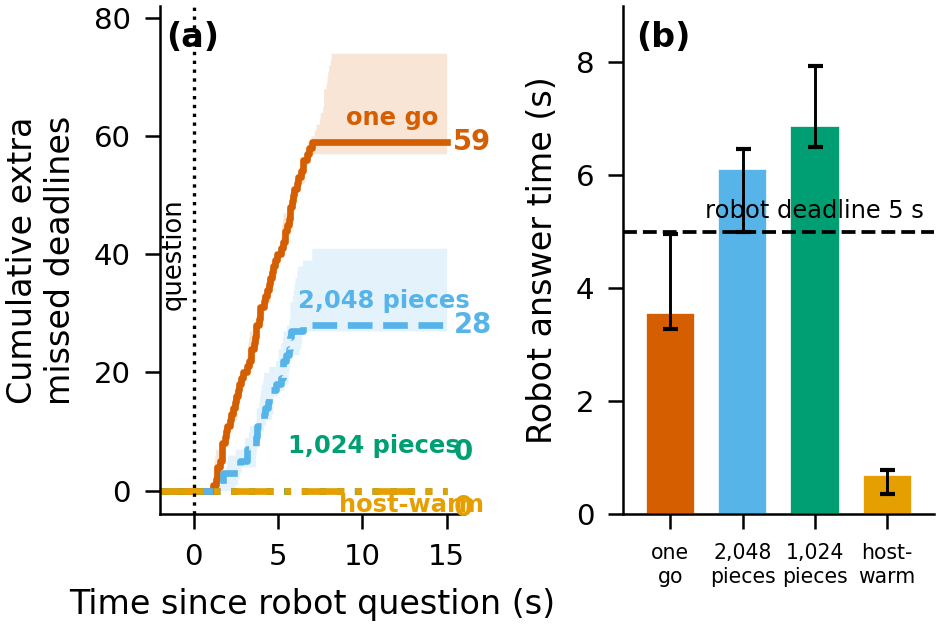
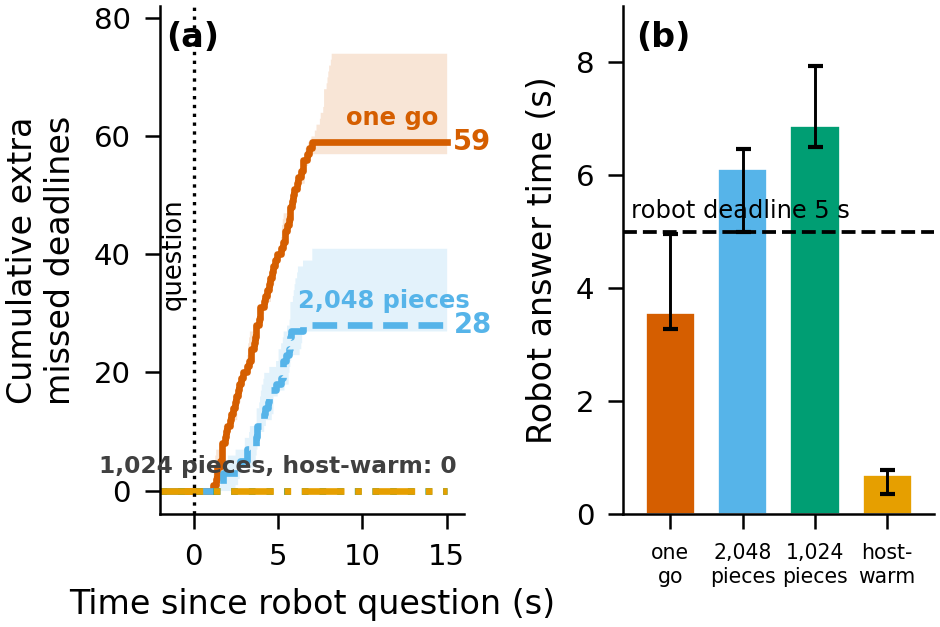
StudyFIG1-motivation

Changed region(s): [[0.0926, 0.697, 0.5245, 0.7576], [0.6787, 0.303, 0.9872, 0.3636], [0.3394, 0.7879, 0.5245, 0.8182]]

diff --git a/plots/motivation/figM7_dayinlife.py b/plots/motivation/figM7_dayinlife.py
@@ -109,13 +109,18 @@ axa.set_xlim(XLO, XR)
 axa.set_ylim(-4, 82)
 axa.set_xticks([0, 5, 10, 15])
 # direct curve labels (name riding the plateau) + final median count at the right end.
-# The two zero curves overlap at y = 0, so their labels are offset vertically, not the data.
-name_pos = {"ONE-GO": (9.0, 63), "P2048": (6.2, 32), "P1024": (5.6, 7.5), "HOST-WARM": (8.6, -2.5)}
-cnt_y = {"ONE-GO": 59, "P2048": 28, "P1024": 6.5, "HOST-WARM": -3.0}
+# The 1,024-pieces and host-warm curves coincide at y = 0; both lines are kept, but their
+# two end labels are replaced by one neutral-grey label just above the zero line.
+name_pos = {"ONE-GO": (9.0, 63), "P2048": (6.2, 32)}
+cnt_y = {"ONE-GO": 59, "P2048": 28}
 for a, lab, c, ls in acts:
+    if a not in name_pos:
+        continue
     axa.text(*name_pos[a], lab, fontsize=5.8, color=c, va="center", ha="left", fontweight="bold")
     axa.text(15.4, cnt_y[a], f"{int(curve[a]['final_median'])}", fontsize=6.6, color=c,
              va="center", ha="left", fontweight="bold")
+axa.text(15.6, 4.0, "1,024 pieces, host-warm: 0", fontsize=5.6, color="#404040",
+         va="center", ha="right", fontweight="bold")
 axa.text(0.02, 0.97, "(a)", transform=axa.transAxes, fontsize=8, va="top", fontweight="bold")
 
 # (b) robot answer time per action
@@ -126,7 +131,7 @@ for i, (a, lab, c, ls) in enumerate(acts):
     axb.errorbar(i, m, yerr=[[m - rob[a]["lo"]], [rob[a]["hi"] - m]], fmt="none",
                  ecolor="black", elinewidth=0.7, capsize=1.8)
 axb.axhline(TARGET, ls="--", lw=0.9, color="black")
-axb.text(len(acts) - 0.5, TARGET + 0.15, "robot deadline 5 s", ha="right", va="bottom", fontsize=5.8)
+axb.text(-0.55, TARGET + 0.15, "robot deadline 5 s", ha="left", va="bottom", fontsize=5.8)
 axb.set_xticks(xb)
 axb.set_xticklabels(["one\ngo", "2,048\npieces", "1,024\npieces", "host-\nwarm"], fontsize=4.9)
 axb.set_ylabel("Robot answer time (s)")
